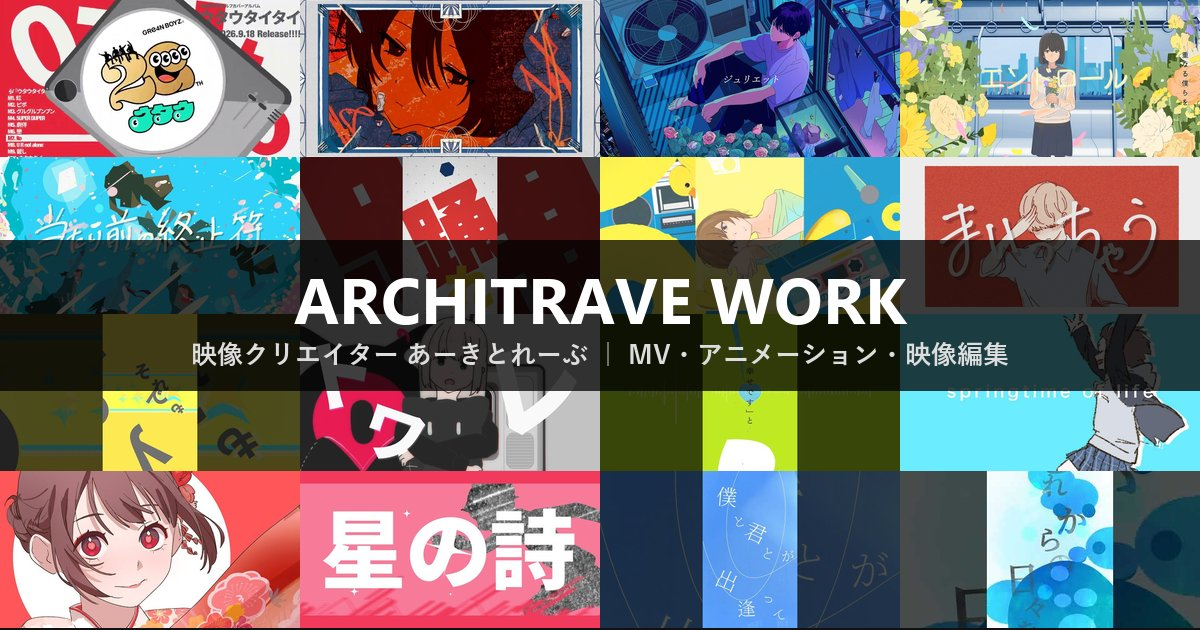
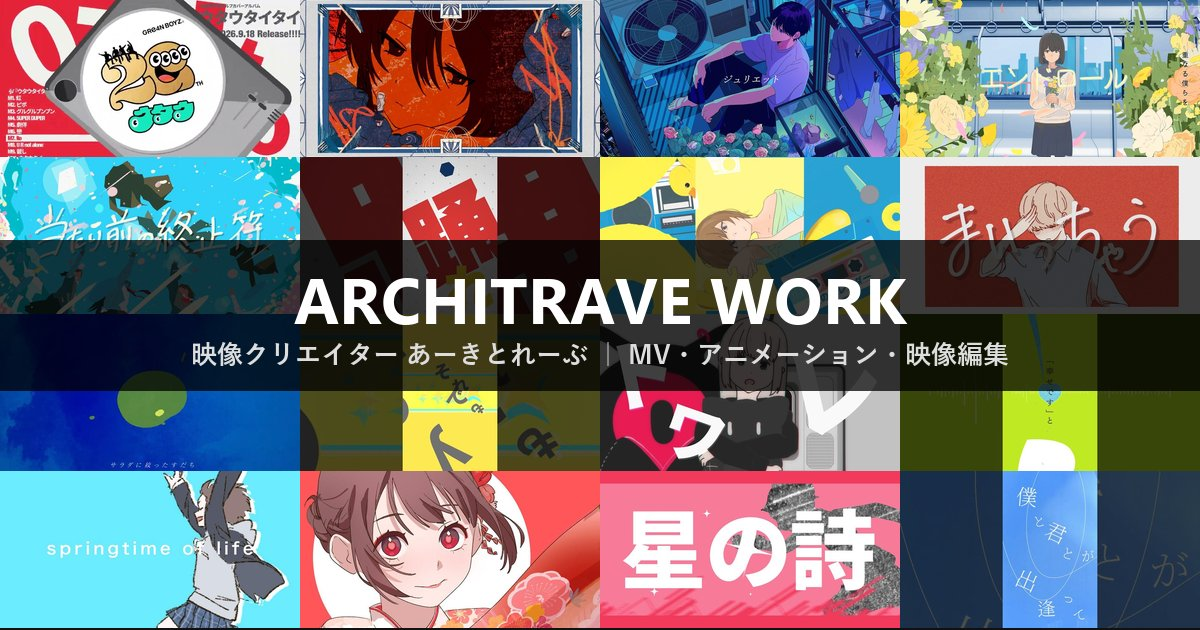
Add blend house「すだち」Animated MV as 9th work

diff --git a/work/Zvj9CDngUWY/index.html b/work/Zvj9CDngUWY/index.html
@@ -1,0 +1,132 @@
+<!DOCTYPE html>
+<html lang="ja">
+<head>
+<meta charset="UTF-8">
+<meta name="viewport" content="width=device-width, initial-scale=1.0">
+<link rel="icon" type="image/png" sizes="32x32" href="../../favicon-32.png">
+<link rel="apple-touch-icon" sizes="180x180" href="../../favicon-180.png">
+<title>blend house - すだち (Prod. edbl) [Animated Music Video]｜アニメーション・編集：あーきとれーぶ - ARCHITRAVE WORK</title>
+<meta name="description" content="blend house - すだち (Prod. edbl) [Animated Music Video]。映像クリエイターあーきとれーぶがアニメーション・編集を担当。Music Video for &quot;すだち” by blend hous…">
+<link rel="canonical" href="https://architravework.github.io/architrave/work/Zvj9CDngUWY/">
+<meta property="og:type" content="video.other">
+<meta property="og:site_name" content="ARCHITRAVE WORK">
+<meta property="og:locale" content="ja_JP">
+<meta property="og:title" content="blend house - すだち (Prod. edbl) [Animated Music Video]">
+<meta property="og:description" content="blend house - すだち (Prod. edbl) [Animated Music Video]。映像クリエイターあーきとれーぶがアニメーション・編集を担当。Music Video for &quot;すだち” by blend hous…">
+<meta property="og:image" content="https://architravework.github.io/architrave/ogp/work-Zvj9CDngUWY.jpg">
+<meta property="og:image:width" content="1200">
+<meta property="og:image:height" content="630">
+<meta property="og:url" content="https://architravework.github.io/architrave/work/Zvj9CDngUWY/">
+<meta name="twitter:card" content="summary_large_image">
+<script type="application/ld+json">
+{
+ "@context": "https://schema.org",
+ "@graph": [
+  {
+   "@type": "VideoObject",
+   "name": "blend house - すだち (Prod. edbl) [Animated Music Video]",
+   "description": "blend house - すだち (Prod. edbl) [Animated Music Video]。映像クリエイターあーきとれーぶがアニメーション・編集を担当。Music Video for \"すだち” by blend hous…",
+   "thumbnailUrl": [
+    "https://architravework.github.io/architrave/ogp/work-Zvj9CDngUWY.jpg",
+    "https://architravework.github.io/architrave/images/90.jpg"
+   ],
+   "uploadDate": "2026-10-15T02:00:25-07:00",
+   "duration": "PT3M32S",
+   "embedUrl": "https://www.youtube.com/embed/Zvj9CDngUWY",
+   "url": "https://architravework.github.io/architrave/work/Zvj9CDngUWY/",
+   "creator": {
+    "@id": "https://architravework.github.io/architrave/#person"
+   }
+  },
+  {
+   "@type": "BreadcrumbList",
+   "itemListElement": [
+    {
+     "@type": "ListItem",
+     "position": 1,
+     "name": "HOME",
+     "item": "https://architravework.github.io/architrave/"
+    },
+    {
+     "@type": "ListItem",
+     "position": 2,
+     "name": "blend house - すだち (Prod. edbl) [Animated Music Video]",
+     "item": "https://architravework.github.io/architrave/work/Zvj9CDngUWY/"
+    }
+   ]
+  }
+ ]
+}
+</script>
+<!-- Analytics opt-out: visit this page with ?ga_optout=1 once to stop this browser being counted (?ga_optout=0 to re-enable) -->
+<script>
+  (function () {
+    var params = new URLSearchParams(location.search);
+    if (params.get('ga_optout') === '1') localStorage.setItem('ga_optout', '1');
+    if (params.get('ga_optout') === '0') localStorage.removeItem('ga_optout');
+    if (localStorage.getItem('ga_optout') === '1') window['ga-disable-G-EN5YTT3L33'] = true;
+    if (location.hostname === 'localhost' || location.hostname === '127.0.0.1') window['ga-disable-G-EN5YTT3L33'] = true;
+  })();
+</script>
+<!-- Google tag (gtag.js) -->
+<script async src="https://www.googletagmanager.com/gtag/js?id=G-EN5YTT3L33"></script>
+<script>
+  window.dataLayer = window.dataLayer || [];
+  function gtag(){dataLayer.push(arguments);}
+  gtag('js', new Date());
+  gtag('config', 'G-EN5YTT3L33');
+</script>
+<link rel="preconnect" href="https://fonts.googleapis.com">
+<link rel="preconnect" href="https://fonts.gstatic.com" crossorigin>
+<link href="https://fonts.googleapis.com/css2?family=Noto+Sans+JP:wght@300;400;500;700&display=swap" rel="stylesheet">
+<link rel="stylesheet" href="../../style.css">
+</head>
+<body class="work-page">
+<header class="site-header">
+  <nav class="nav-container">
+    <a href="../../index.html">HOME</a>
+    <a href="../../contact.html">ご依頼について</a>
+    <a href="../../gallery.html">GALLERY</a>
+  </nav>
+  <div class="logo-wrap">
+    <div class="logo">ARCHITRAVE<br>WORK</div>
+  </div>
+</header>
+
+<main class="work-detail">
+  <nav class="work-breadcrumb" aria-label="パンくず"><a href="../../">HOME</a> › <span>blend house - すだち (Prod. edbl) [Animated Music Video]</span></nav>
+  <div class="work-video">
+    <iframe src="https://www.youtube.com/embed/Zvj9CDngUWY" title="blend house - すだち (Prod. edbl) [Animated Music Video]"
+      allow="autoplay; encrypted-media; picture-in-picture" allowfullscreen></iframe>
+  </div>
+  <h1 class="work-title">blend house - すだち (Prod. edbl) [Animated Music Video]</h1>
+  <p class="work-meta"><span class="work-year">2026</span> <span class="role-badge">アニメーション</span><span class="role-badge">編集</span></p>
+  <p class="work-credit">Animation, Background &amp; Editing: あーきとれーぶ / Animation: Haruka Shimizu, Emi Morikawa</p>
+  <div class="work-actions">
+    <a class="work-button" href="https://www.youtube.com/watch?v=Zvj9CDngUWY" target="_blank" rel="noopener">YouTubeで見る</a>
+    <a class="work-button work-button-primary" href="../../contact?ref=Zvj9CDngUWY">この作品のような映像制作を依頼する</a>
+  </div>
+  <section class="work-description">
+    <h2>概要</h2>
+    <p>Music Video for &quot;すだち” by blend house<br><a href="https://bio.to/blendhouse" target="_blank" rel="noopener nofollow">https://bio.to/blendhouse</a><br><br>Music&amp;Lyric：HiROKI / Ryoma Takamura<br>Sound Produce : edbl<br>Recording Engineer : Takeaki Oshima<br>Mastering : 森崎雅人(ARTISANS MASTERING)<br>Animation: architrave / Haruka Shimizu / Emi Morikawa<br>Video Concept &amp; Production: NihyakuWIND<br>Label：P-VINE<br><br>Follow blend house<br>Instagram：   / blendhouse_jp  <br>Official Site：<a href="https://blendhouse-jp.com/" target="_blank" rel="noopener nofollow">https://blendhouse-jp.com/</a><br>Management：<a href="https://bio.to/NihyakuWIND" target="_blank" rel="noopener nofollow">https://bio.to/NihyakuWIND</a></p>
+  </section>
+  <nav class="work-pager"><a href="../QJsTcvAufng/" rel="prev">← 「まいっちゃう」MASA×都鳥-TOTORI-…</a> <a href="../../#work-Zvj9CDngUWY">作品一覧</a> <a href="../ZsBeMrJzw9E/" rel="next">GRe4N BOYZ ショート動画「U R n… →</a></nav>
+  <section class="work-related">
+    <h2>その他の作品</h2>
+    <ul class="work-related-list"><li><a href="../XFhPR9i27eQ/"><img src="../../images/02.jpg" alt="ねむ「当たり前の終止符」Music Video" loading="lazy" width="800" height="450"><span>ねむ「当たり前の終止符」Music Video</span></a></li><li><a href="../Rowmkcclsm0/"><img src="../../images/05.jpg" alt="宇宙パイロット「トワレ」OFFICIAL MUSIC VIDEO" loading="lazy" width="800" height="450"><span>宇宙パイロット「トワレ」OFFICIAL MUSIC VIDEO</span></a></li><li><a href="../q23YpekQmYQ/"><img src="../../images/06.jpg" alt="GREEEEN / TO ALL SPORTS LOVERS　アルバムショート動画" loading="lazy" width="800" height="450"><span>GREEEEN / TO ALL SPORTS LOVERS　アルバムショート動画</span></a></li><li><a href="../7v4eX-Q8k34/"><img src="../../images/07.jpg" alt="FMV３クスッギフト　3月配信映像　【ディレクション】" loading="lazy" width="800" height="450"><span>FMV３クスッギフト　3月配信映像　【ディレクション】</span></a></li><li><a href="../4SJyfo-5izU/"><img src="../../images/08.jpg" alt="監督したアニメがファミマで見れます！" loading="lazy" width="800" height="450"><span>監督したアニメがファミマで見れます！</span></a></li><li><a href="../7lqJ-3v1k1A/"><img src="../../images/09.jpg" alt="GRE4N BOYZ / 「星の詩」LYRIC VIDEO" loading="lazy" width="800" height="450"><span>GRE4N BOYZ / 「星の詩」LYRIC VIDEO</span></a></li></ul>
+  </section>
+</main>
+<footer class="site-footer">
+  <a href="https://x.com/architrave123" target="_blank" rel="noopener" aria-label="X">
+    <svg viewBox="0 0 24 24"><path d="M18.9 2H22l-7.5 8.6L23 22h-6.9l-5.4-6.9L4.4 22H1.3l8-9.2L1 2h7.1l4.9 6.3L18.9 2zm-1.2 18h1.9L7.4 3.9H5.3L17.7 20z"/></svg>
+  </a>
+  <a href="https://www.tiktok.com/@architrave123" target="_blank" rel="noopener" aria-label="TikTok">
+    <svg viewBox="0 0 24 24"><path d="M16.6 2h-3.2v13.7a3 3 0 1 1-2.4-2.9V9.4a6.2 6.2 0 1 0 5.6 6.2V8.6a8.2 8.2 0 0 0 4.9 1.6V7a5 5 0 0 1-4.9-5z"/></svg>
+  </a>
+  <a href="https://www.youtube.com/@architrave123" target="_blank" rel="noopener" aria-label="YouTube">
+    <svg viewBox="0 0 24 24"><path d="M23.5 6.2a3 3 0 0 0-2.1-2.1C19.5 3.5 12 3.5 12 3.5s-7.5 0-9.4.6A3 3 0 0 0 .5 6.2 31 31 0 0 0 0 12a31 31 0 0 0 .5 5.8 3 3 0 0 0 2.1 2.1c1.9.6 9.4.6 9.4.6s7.5 0 9.4-.6a3 3 0 0 0 2.1-2.1A31 31 0 0 0 24 12a31 31 0 0 0-.5-5.8zM9.6 15.5V8.5L15.8 12z"/></svg>
+  </a>
+</footer>
+<script src="../../header.js"></script>
+</body>
+</html>

diff --git a/work/QJsTcvAufng/index.html b/work/QJsTcvAufng/index.html
@@ -110,7 +110,7 @@
     <h2>概要</h2>
     <p>masa - まいっちゃう<br>DL &amp; Streaming : <a href="https://orcd.co/maicchau" target="_blank" rel="noopener nofollow">https://orcd.co/maicchau</a><br><br>アトリエプロジェクト・オリジナルコラボMV。<br>シンガーソングライターのmasa、イラストレーターの都鳥-totori-、<br>映像クリエイターのあーきとれーぶ、三名によるアトリエオリジナルコラボ作品です！<br><br>「まいっちゃう」<br>VIDEO<br>イラスト・アニメーション：都鳥-totori-<br>動画：あーきとれーぶ<br><br>MUSIC<br>作詞・作曲：masa<br>アレンジ：高村風太<br>REC・MIX：村松知哉<br>ディレクション：花村智志<br>マスタリング：風間萌<br><br>masa<br>TikTok :    / masa12528<br>X :    / msong_28_are<br>Instagram :    / masa12528<br>YouTube：   / @masa-zx7ou<br><br>都鳥-totori-<br>TikTok :    / totori__02<br>X :    / totori__02<br>Instagram :    / totori__02<br>YouTube：   / @totori__02<br><br>あーきとれーぶ<br>TikTok :    / architrave123<br>X :    / architrave123<br>YouTube：   / @architrave123<br><br><br>【アトリエプロジェクト】とは…<br><br>才能が集い、作品を生む。<br><br>アトリエプロジェクトは、TikTokとソニーミュージックがともに立ち上げたプロジェクト。<br><br>さまざまなクリエイティブにチャレンジしている方々がコラボレーションするための<br><br>コミュニティ「アトリエ」を結成し、その活動をサポート。<br><br>音楽やアニメーション、映像制作、イラストなど幅広く集まる才能たちで、<br><br>アトリエメンバーの創作活動を始め、クリエイティブの制作、コラボレーションなど、<br><br>世の中をワクワクさせるモノを生み出すことを目指す。<br><br>アトリエプロジェクト<br>HP：<a href="https://atelierproject.net/" target="_blank" rel="noopener nofollow">https://atelierproject.net/</a><br>TikTok：  / atelierproject<br>X：  / atelierproject_<br><br>#アトリエプロジェクト #masa #都鳥 #あーきとれーぶ</p>
   </section>
-  <nav class="work-pager"><a href="../nVs1prnygiE/" rel="prev">← メタリックセイメイ「夏のカレンダー」Music…</a> <a href="../../#work-QJsTcvAufng">作品一覧</a> <a href="../ZsBeMrJzw9E/" rel="next">GRe4N BOYZ ショート動画「U R n… →</a></nav>
+  <nav class="work-pager"><a href="../nVs1prnygiE/" rel="prev">← メタリックセイメイ「夏のカレンダー」Music…</a> <a href="../../#work-QJsTcvAufng">作品一覧</a> <a href="../Zvj9CDngUWY/" rel="next">blend house - すだち (Prod… →</a></nav>
   <section class="work-related">
     <h2>その他の作品</h2>
     <ul class="work-related-list"><li><a href="../Rowmkcclsm0/"><img src="../../images/05.jpg" alt="宇宙パイロット「トワレ」OFFICIAL MUSIC VIDEO" loading="lazy" width="800" height="450"><span>宇宙パイロット「トワレ」OFFICIAL MUSIC VIDEO</span></a></li><li><a href="../4SJyfo-5izU/"><img src="../../images/08.jpg" alt="監督したアニメがファミマで見れます！" loading="lazy" width="800" height="450"><span>監督したアニメがファミマで見れます！</span></a></li><li><a href="../7lqJ-3v1k1A/"><img src="../../images/09.jpg" alt="GRE4N BOYZ / 「星の詩」LYRIC VIDEO" loading="lazy" width="800" height="450"><span>GRE4N BOYZ / 「星の詩」LYRIC VIDEO</span></a></li><li><a href="../waNKLU4Gyhc/"><img src="../../images/11.jpg" alt="眉村ちあき「THEスーパーグルグルフィジカルジンジャーエール」MV" loading="lazy" width="800" height="450"><span>眉村ちあき「THEスーパーグルグルフィジカルジンジャーエール」MV</span></a></li><li><a href="../pjTdLOlXcsI/"><img src="../../images/12.jpg" alt="「不協和音」szri×ハツミノ×あーきとれーぶ（アトリエプロジェクト）" loading="lazy" width="800" height="450"><span>「不協和音」szri×ハツミノ×あーきとれーぶ（アトリエプロジェクト）</span></a></li><li><a href="../LDPutBJ8Oec/"><img src="../../images/13.jpg" alt="「アメージング・グレイス」RIP DISHONOR（アトリエプロジェクト）" loading="lazy" width="800" height="450"><span>「アメージング・グレイス」RIP DISHONOR（アトリエプロジェクト）</span></a></li></ul>

diff --git a/work/XFhPR9i27eQ/index.html b/work/XFhPR9i27eQ/index.html
@@ -113,7 +113,7 @@
   <nav class="work-pager"><a href="../fepw6wKU8D8/" rel="prev">← エンドロール - クワガタP feat. 重音…</a> <a href="../../#work-XFhPR9i27eQ">作品一覧</a> <a href="../SVLvcvREXCQ/" rel="next">GRe4N BOYZ ショート動画「ピポ」 →</a></nav>
   <section class="work-related">
     <h2>その他の作品</h2>
-    <ul class="work-related-list"><li><a href="../nVs1prnygiE/"><img src="../../images/03.jpg" alt="メタリックセイメイ「夏のカレンダー」Music Video" loading="lazy" width="800" height="450"><span>メタリックセイメイ「夏のカレンダー」Music Video</span></a></li><li><a href="../QJsTcvAufng/"><img src="../../images/04.jpg" alt="「まいっちゃう」MASA×都鳥-TOTORI-×あーきとれーぶ(アトリエプロジェクト)" loading="lazy" width="800" height="450"><span>「まいっちゃう」MASA×都鳥-TOTORI-×あーきとれーぶ(アトリエプロジェクト)</span></a></li><li><a href="../ZsBeMrJzw9E/"><img src="../../images/81.jpg" alt="GRe4N BOYZ ショート動画「U R not alone」" loading="lazy" width="800" height="450"><span>GRe4N BOYZ ショート動画「U R not alone」</span></a></li><li><a href="../Rowmkcclsm0/"><img src="../../images/05.jpg" alt="宇宙パイロット「トワレ」OFFICIAL MUSIC VIDEO" loading="lazy" width="800" height="450"><span>宇宙パイロット「トワレ」OFFICIAL MUSIC VIDEO</span></a></li><li><a href="../q23YpekQmYQ/"><img src="../../images/06.jpg" alt="GREEEEN / TO ALL SPORTS LOVERS　アルバムショート動画" loading="lazy" width="800" height="450"><span>GREEEEN / TO ALL SPORTS LOVERS　アルバムショート動画</span></a></li><li><a href="../7v4eX-Q8k34/"><img src="../../images/07.jpg" alt="FMV３クスッギフト　3月配信映像　【ディレクション】" loading="lazy" width="800" height="450"><span>FMV３クスッギフト　3月配信映像　【ディレクション】</span></a></li></ul>
+    <ul class="work-related-list"><li><a href="../Zvj9CDngUWY/"><img src="../../images/90.jpg" alt="blend house - すだち (Prod. edbl) [Animated Music Video]" loading="lazy" width="800" height="450"><span>blend house - すだち (Prod. edbl) [Animated Music Video]</span></a></li><li><a href="../nVs1prnygiE/"><img src="../../images/03.jpg" alt="メタリックセイメイ「夏のカレンダー」Music Video" loading="lazy" width="800" height="450"><span>メタリックセイメイ「夏のカレンダー」Music Video</span></a></li><li><a href="../QJsTcvAufng/"><img src="../../images/04.jpg" alt="「まいっちゃう」MASA×都鳥-TOTORI-×あーきとれーぶ(アトリエプロジェクト)" loading="lazy" width="800" height="450"><span>「まいっちゃう」MASA×都鳥-TOTORI-×あーきとれーぶ(アトリエプロジェクト)</span></a></li><li><a href="../ZsBeMrJzw9E/"><img src="../../images/81.jpg" alt="GRe4N BOYZ ショート動画「U R not alone」" loading="lazy" width="800" height="450"><span>GRe4N BOYZ ショート動画「U R not alone」</span></a></li><li><a href="../Rowmkcclsm0/"><img src="../../images/05.jpg" alt="宇宙パイロット「トワレ」OFFICIAL MUSIC VIDEO" loading="lazy" width="800" height="450"><span>宇宙パイロット「トワレ」OFFICIAL MUSIC VIDEO</span></a></li><li><a href="../q23YpekQmYQ/"><img src="../../images/06.jpg" alt="GREEEEN / TO ALL SPORTS LOVERS　アルバムショート動画" loading="lazy" width="800" height="450"><span>GREEEEN / TO ALL SPORTS LOVERS　アルバムショート動画</span></a></li></ul>
   </section>
 </main>
 <footer class="site-footer">

diff --git a/work/ZsBeMrJzw9E/index.html b/work/ZsBeMrJzw9E/index.html
@@ -110,7 +110,7 @@
     <h2>概要</h2>
     <p>様々なアーティストなどへ<br>楽曲提供をしてきた曲を<br>GRe4N BOYZ自身が歌唱する<br>9/18（金）配信リリース<br>セルフカバーアルバム『#ウタウタイタイ』🎹<br><br>収録曲の中から<br>NEWSさんへの楽曲提供曲<br>「U R not alone」を少しだけお届け🌏<br><br>配信予約はこちら⬇<br><a href="https://gre4nboyz.lnk.to/UTAU-TAITAI" target="_blank" rel="noopener nofollow">https://gre4nboyz.lnk.to/UTAU-TAITAI</a><br><br>#GRe4NBOYZ</p>
   </section>
-  <nav class="work-pager"><a href="../QJsTcvAufng/" rel="prev">← 「まいっちゃう」MASA×都鳥-TOTORI-…</a> <a href="../../#work-ZsBeMrJzw9E">作品一覧</a> <a href="../Rowmkcclsm0/" rel="next">宇宙パイロット「トワレ」OFFICIAL MU… →</a></nav>
+  <nav class="work-pager"><a href="../Zvj9CDngUWY/" rel="prev">← blend house - すだち (Prod…</a> <a href="../../#work-ZsBeMrJzw9E">作品一覧</a> <a href="../Rowmkcclsm0/" rel="next">宇宙パイロット「トワレ」OFFICIAL MU… →</a></nav>
   <section class="work-related">
     <h2>その他の作品</h2>
     <ul class="work-related-list"><li><a href="../q23YpekQmYQ/"><img src="../../images/06.jpg" alt="GREEEEN / TO ALL SPORTS LOVERS　アルバムショート動画" loading="lazy" width="800" height="450"><span>GREEEEN / TO ALL SPORTS LOVERS　アルバムショート動画</span></a></li><li><a href="../7v4eX-Q8k34/"><img src="../../images/07.jpg" alt="FMV３クスッギフト　3月配信映像　【ディレクション】" loading="lazy" width="800" height="450"><span>FMV３クスッギフト　3月配信映像　【ディレクション】</span></a></li><li><a href="../qFvlFUVgCXY/"><img src="../../images/80.jpg" alt="GRe4N BOYZ ショート動画「Ito」" loading="lazy" width="800" height="450"><span>GRe4N BOYZ ショート動画「Ito」</span></a></li><li><a href="../i9aVfWZ9UJQ/"><img src="../../images/87.jpg" alt="GRe4N BOYZ ショート動画「碧し」" loading="lazy" width="800" height="450"><span>GRe4N BOYZ ショート動画「碧し」</span></a></li><li><a href="../dlWKnTuP4oM/"><img src="../../images/10.jpg" alt="ファントム - 重音テト×mai" loading="lazy" width="800" height="450"><span>ファントム - 重音テト×mai</span></a></li><li><a href="../-6M2Trskix0/"><img src="../../images/78.jpg" alt="GRe4N BOYZ ショート動画「グルグルブンブン」" loading="lazy" width="800" height="450"><span>GRe4N BOYZ ショート動画「グルグルブンブン」</span></a></li></ul>

diff --git a/data.js b/data.js
@@ -518,6 +518,29 @@ X：  / atelierproject_
 #アトリエプロジェクト #masa #都鳥 #あーきとれーぶ`
   },
   {
+    title: "blend house - すだち (Prod. edbl) [Animated Music Video]",
+    year: 2026,
+    youtubeId: "Zvj9CDngUWY",
+    thumbnail: "images/90.jpg",
+    credit: "Animation, Background & Editing: あーきとれーぶ / Animation: Haruka Shimizu, Emi Morikawa",
+    roles: ["animation", "editing"],
+    description: `Music Video for "すだち” by blend house
+https://bio.to/blendhouse
+
+Music&Lyric：HiROKI / Ryoma Takamura
+Sound Produce : edbl
+Recording Engineer : Takeaki Oshima
+Mastering : 森崎雅人(ARTISANS MASTERING)
+Animation: architrave / Haruka Shimizu / Emi Morikawa
+Video Concept & Production: NihyakuWIND
+Label：P-VINE
+
+Follow blend house
+Instagram：   / blendhouse_jp  
+Official Site：https://blendhouse-jp.com/
+Management：https://bio.to/NihyakuWIND`
+  },
+  {
     title: "GRe4N BOYZ ショート動画「U R not alone」",
     year: 2026,
     youtubeId: "ZsBeMrJzw9E",
